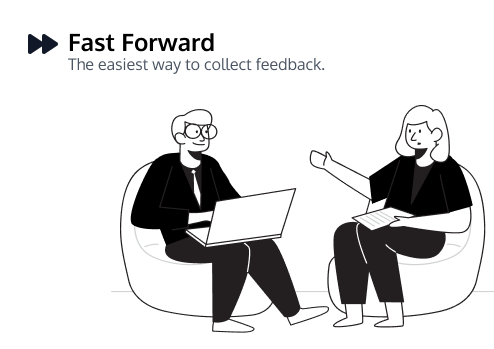
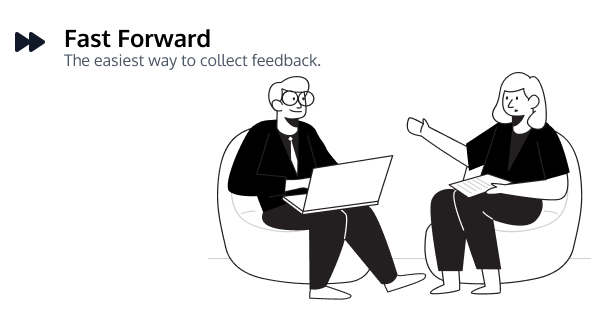
fix: twitter card seo

Changed region(s): [[0.0, 0.086, 1.0, 0.9745]]

diff --git a/src/config/next-seo.config.ts b/src/config/next-seo.config.ts
@@ -11,8 +11,8 @@ const SEO: DefaultSeoProps = {
     images: [
       {
         url: "https://fast-forward.app/meta/default.png",
-        width: 494,
-        height: 349,
+        width: 600,
+        height: 312,
         alt: "Fast Forward - The easiest way to collect feedback.",
       },
     ],
